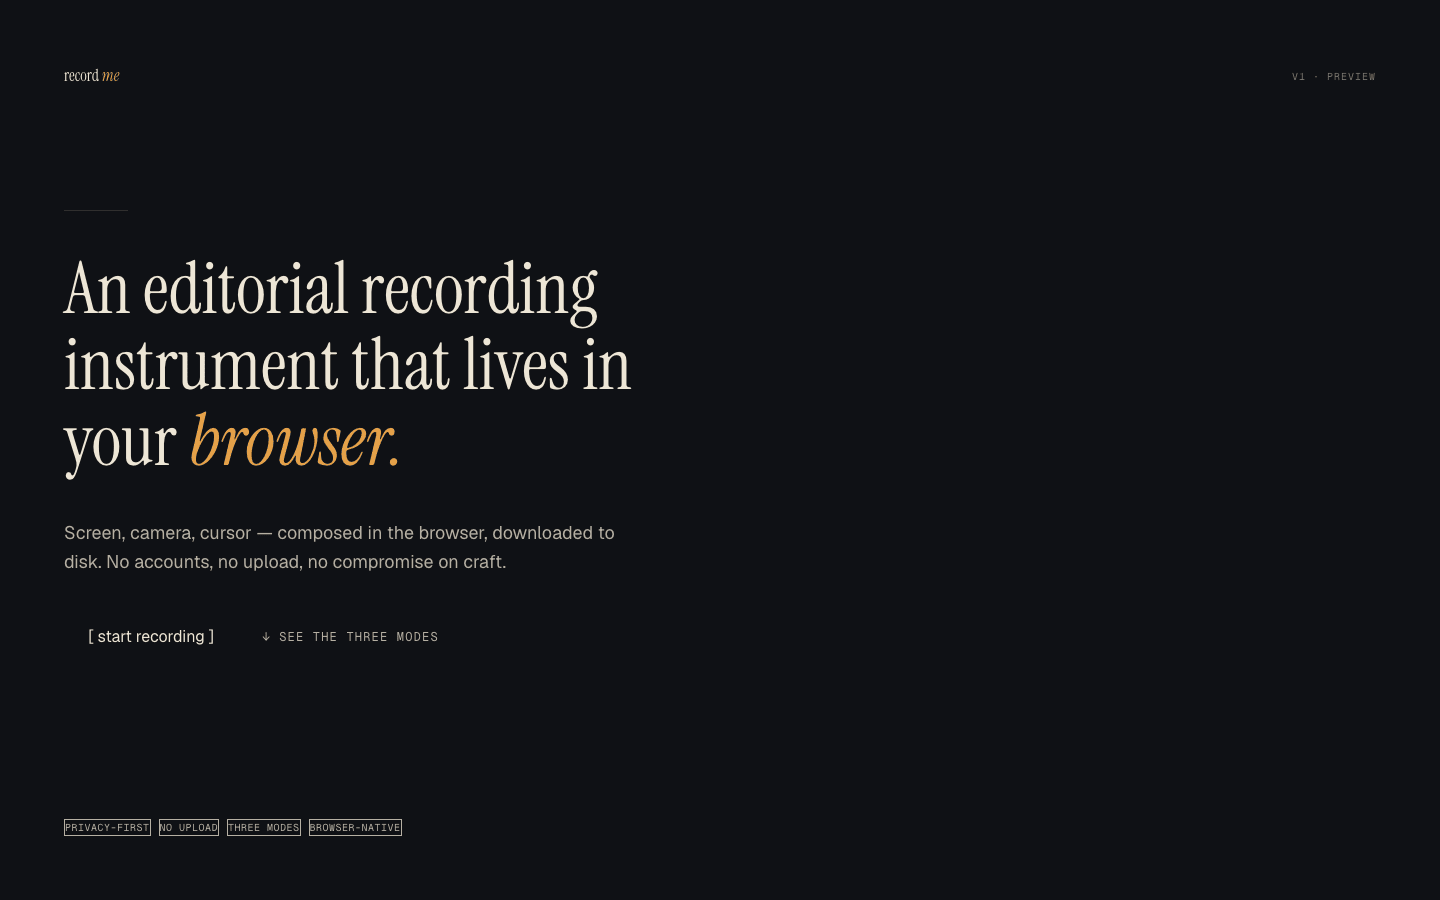
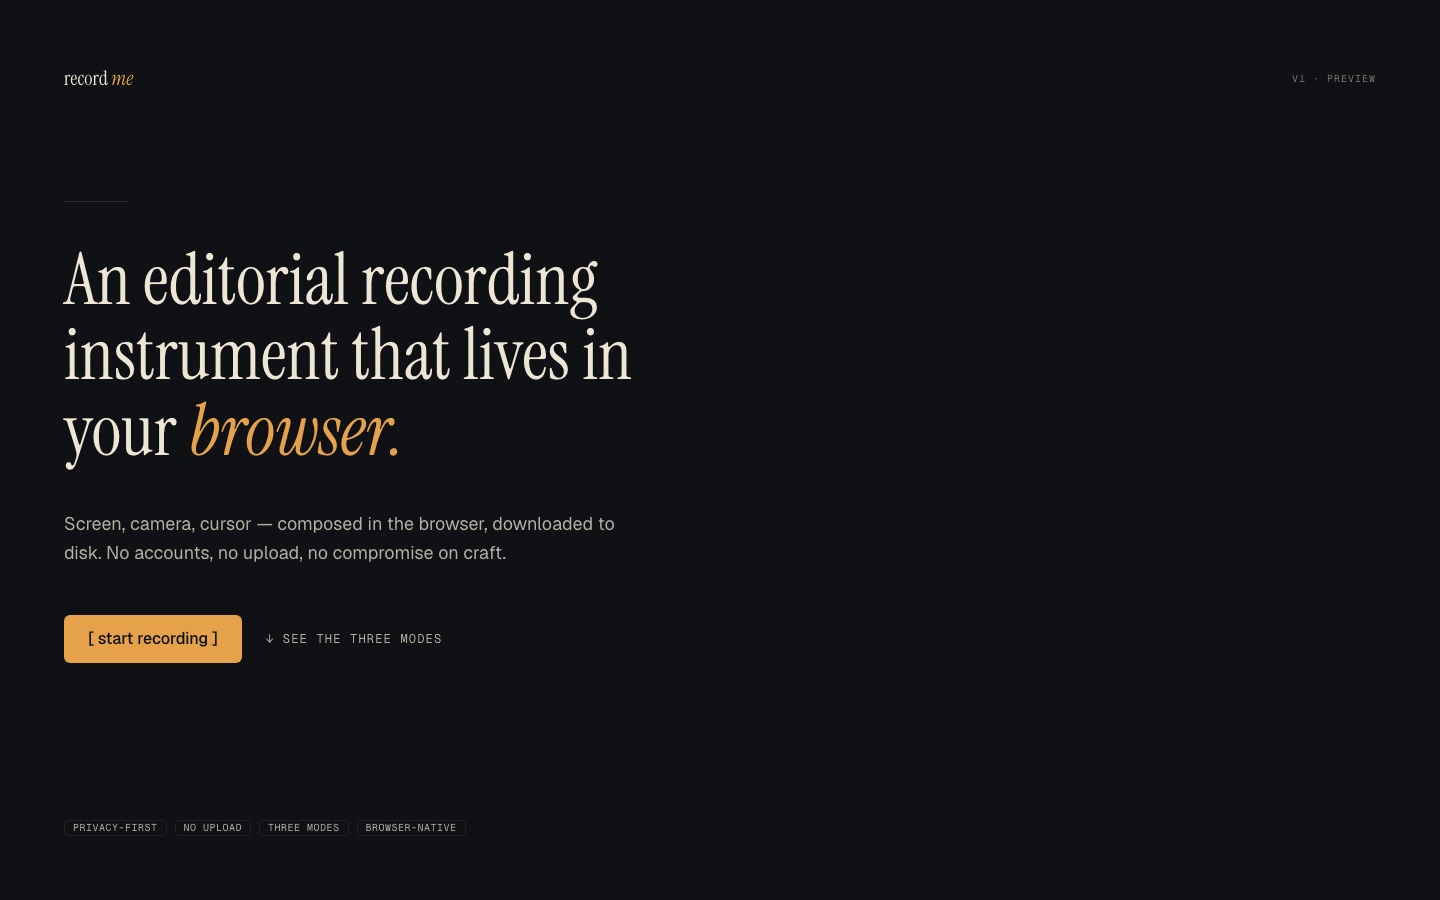
fix(web): hide Next dev indicator in previews + recapture screenshots

diff --git a/apps/web/src/app/dev/previews/layout.tsx b/apps/web/src/app/dev/previews/layout.tsx
@@ -15,5 +15,13 @@ export const metadata: Metadata = {
 // scrollable for ad-hoc review; `bg-bg` ensures the parent's content is fully
 // obscured for clean captures.
 export default function PreviewsLayout({ children }: { children: React.ReactNode }) {
-  return <div className="fixed inset-0 z-50 overflow-auto bg-bg text-ivory">{children}</div>;
+  return (
+    <div className="fixed inset-0 z-50 overflow-auto bg-bg text-ivory">
+      {/* Hide the Next.js dev-mode build indicator (<nextjs-portal>) so it doesn't
+          pollute screenshot captures. Scoped to /dev/previews/* only — other dev
+          routes (e.g. /dev/primitives) keep the badge for normal dev ergonomics. */}
+      <style>{`nextjs-portal { display: none !important; }`}</style>
+      {children}
+    </div>
+  );
 }